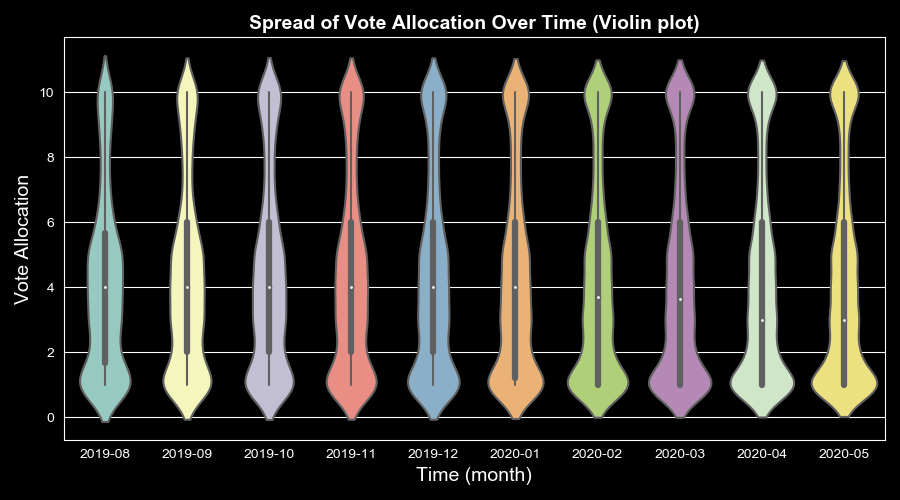
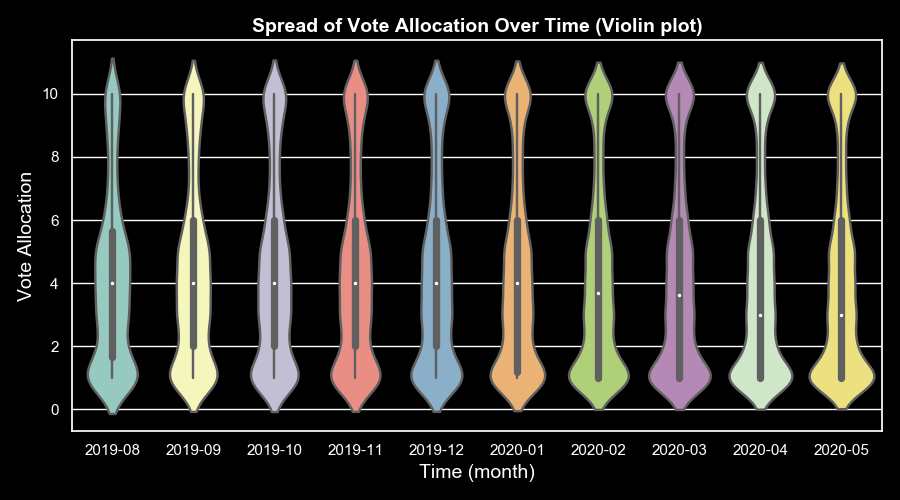
data update

Changed region(s): [[0.0, 0.03, 0.9956, 0.96], [0.6222, 0.63, 0.6533, 0.66]]

diff --git a/vote_analysis/data_extraction/6_voter_behaviour_1.py b/vote_analysis/data_extraction/6_voter_behaviour_1.py
@@ -148,7 +148,7 @@ plt.rcParams["axes.labelsize"] = 14
 sns.set_style("darkgrid")
 plt.style.use("dark_background")
 ax = plt.subplots(figsize=(9, 5))
-ax = sns.violinplot(x="month", y="counts", data=mean_by_month)\
+ax = sns.violinplot(x="month", y="counts", data=mean_by_month, linewidth=1.75)\
     .set(xlabel="Time (month)",
     ylabel="Vote Allocation")
 plt.title('Spread of Vote Allocation Over Time (Violin plot)', fontsize=14, weight='bold')
